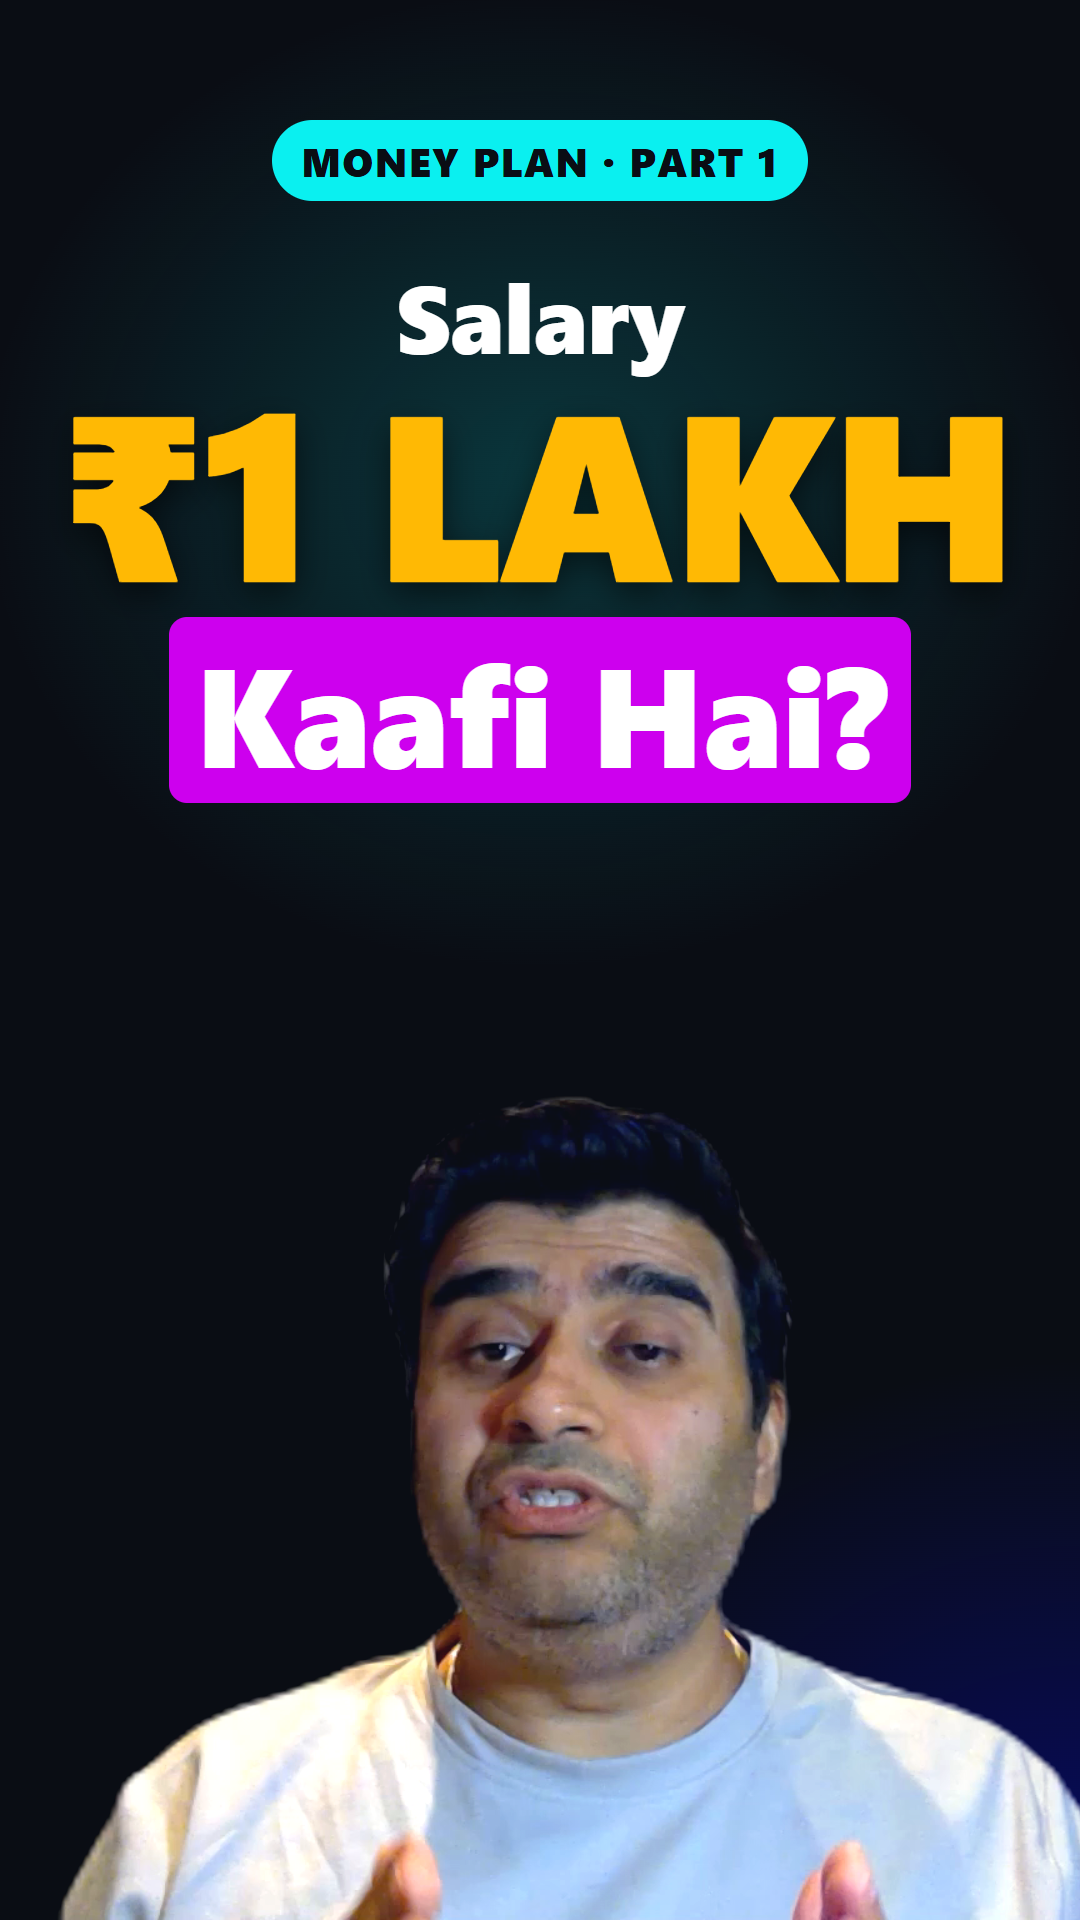
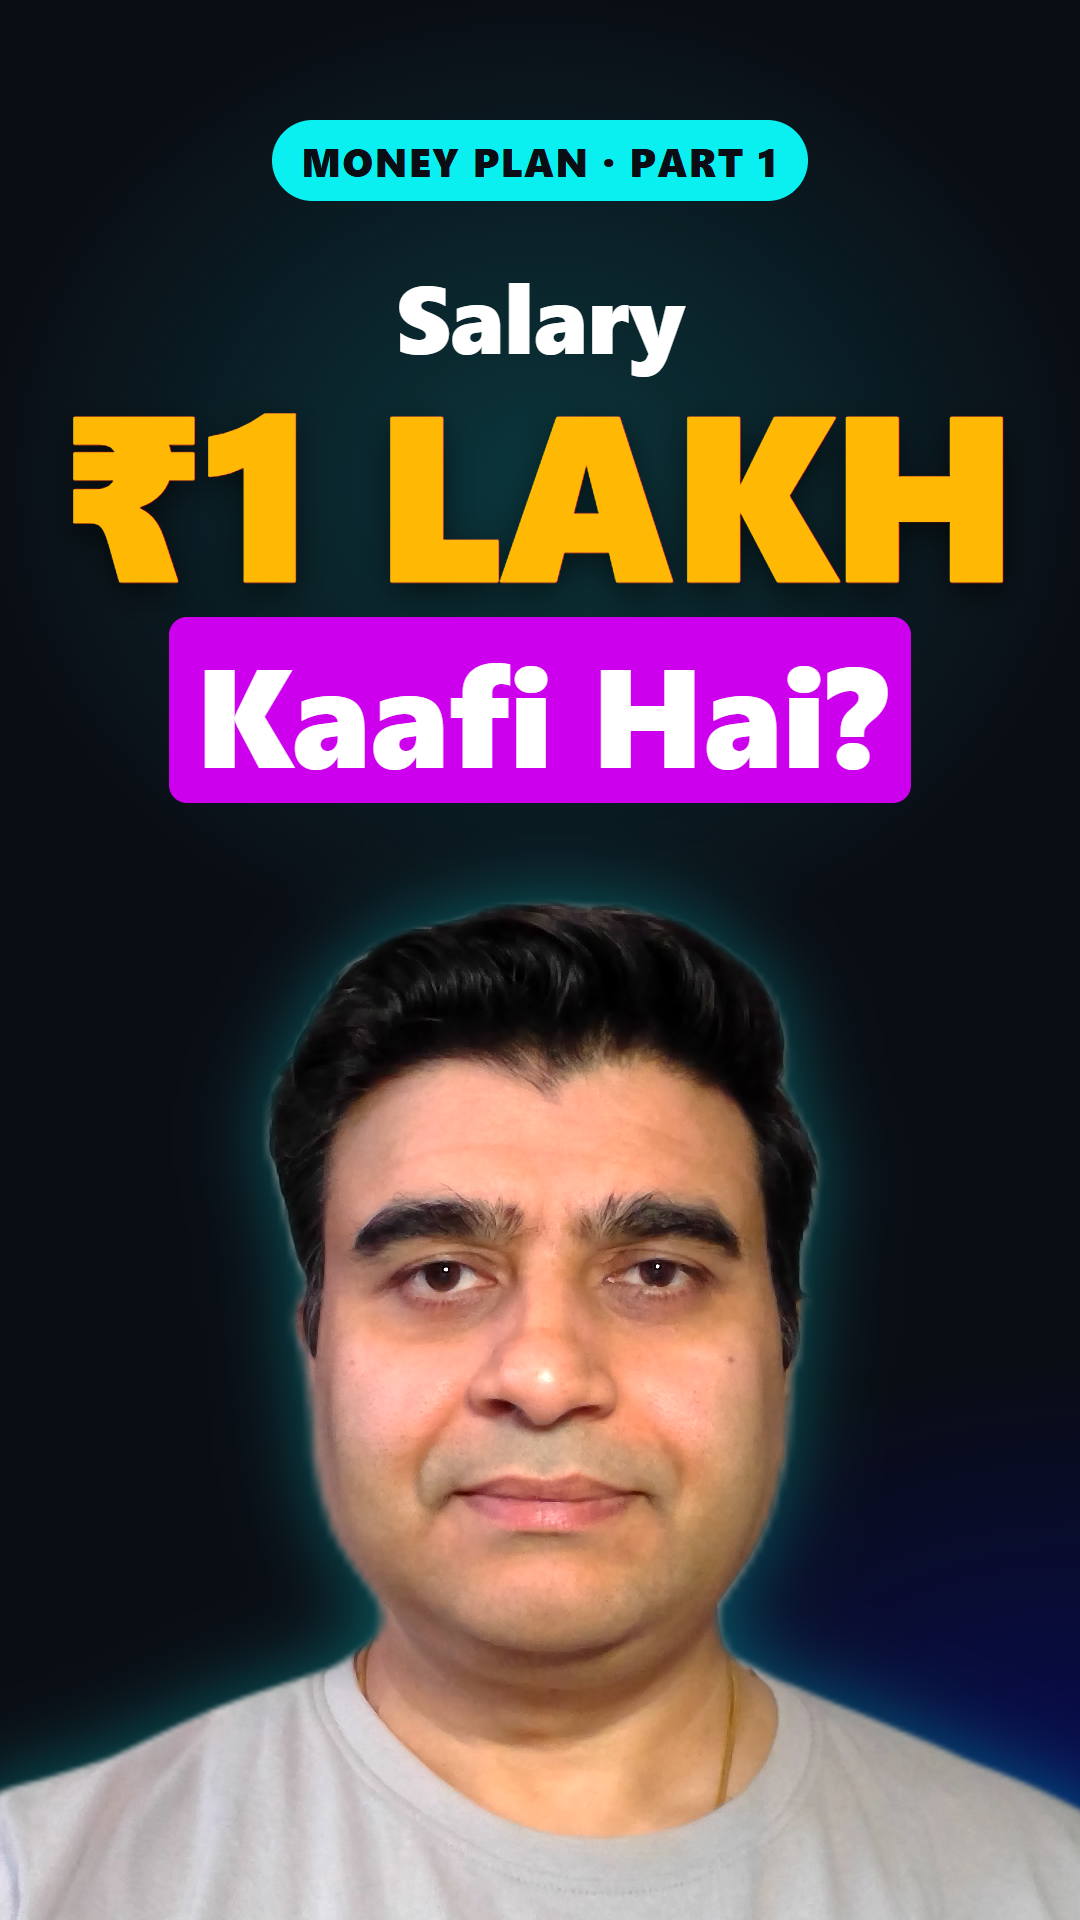
Series thumbnail photo (closed mouth) cut out once; Part 1 thumbnail and Shorts cover rebuilt with it

Changed region(s): [[0.0, 0.4375, 1.0, 1.0]]

diff --git a/videos/ep01/thumbnail/thumb.html b/videos/ep01/thumbnail/thumb.html
@@ -3,7 +3,7 @@
 *{margin:0;padding:0;box-sizing:border-box}
 body{width:1280px;height:720px;overflow:hidden;font-family:"Segoe UI",system-ui,sans-serif;font-weight:800;color:#fff;
   background:radial-gradient(700px 520px at 30% 40%,rgba(10,240,240,.20),transparent 70%),radial-gradient(800px 600px at 100% 100%,rgba(0,5,238,.35),transparent 70%),#0a0d14}
-#raj{position:absolute;left:250px;top:-130px;width:1500px;height:844px;mix-blend-mode:screen;filter:contrast(1.08) saturate(1.1)}
+#raj{position:absolute;left:296px;top:-76px;width:1449px;height:815px;filter:drop-shadow(0 0 28px rgba(10,240,240,.35)) brightness(1.05) contrast(1.06)}
 .pill{position:absolute;left:44px;top:40px;padding:10px 22px;border-radius:9999px;background:#0AF0F0;color:#0a0d14;font-size:30px;letter-spacing:.04em}
 .t1{position:absolute;left:40px;top:118px;font-size:168px;line-height:1;color:#FFB904;-webkit-text-stroke:3px #FFB904;text-shadow:0 10px 30px rgba(0,0,0,.6)}
 .t2{position:absolute;left:44px;top:300px;font-size:112px;line-height:1;text-shadow:0 10px 30px rgba(0,0,0,.6)}
@@ -14,7 +14,7 @@ body{width:1280px;height:720px;overflow:hidden;font-family:"Segoe UI",system-ui,
 .bl span{color:#0AF0F0}
 .fam{position:absolute;left:44px;top:610px;font-size:30px;color:rgba(255,255,255,.85)}
 </style></head><body>
-<img id="raj" src="raj-433.png">
+<img id="raj" src="../../_shared/thumbnail/raj-cutout.png">
 <div class="pill">MONEY PLAN · PART 1</div>
 <div class="t1">₹1 LAKH</div>
 <div class="t2"><b>Kaafi Hai?</b></div>

diff --git a/videos/ep01/thumbnail/cover.html b/videos/ep01/thumbnail/cover.html
@@ -3,7 +3,7 @@
 *{margin:0;padding:0;box-sizing:border-box}
 body{width:1080px;height:1920px;overflow:hidden;font-family:"Segoe UI",system-ui,sans-serif;font-weight:800;color:#fff;text-align:center;
   background:radial-gradient(800px 700px at 50% 25%,rgba(10,240,240,.18),transparent 70%),radial-gradient(900px 800px at 100% 100%,rgba(0,5,238,.35),transparent 70%),#0a0d14}
-#raj{position:absolute;left:-660px;top:570px;width:2400px;height:1350px;mix-blend-mode:screen;filter:contrast(1.08) saturate(1.1)}
+#raj{position:absolute;left:-775px;top:660px;width:2560px;height:1440px;filter:drop-shadow(0 0 40px rgba(10,240,240,.35)) brightness(1.05) contrast(1.06)}
 .pill{position:absolute;left:0;right:0;top:120px}
 .pill span{display:inline-block;padding:14px 30px;border-radius:9999px;background:#0AF0F0;color:#0a0d14;font-size:40px;letter-spacing:.04em}
 .t0{position:absolute;left:0;right:0;top:250px;font-size:96px}
@@ -11,7 +11,7 @@ body{width:1080px;height:1920px;overflow:hidden;font-family:"Segoe UI",system-ui
 .t2{position:absolute;left:0;right:0;top:640px;font-size:140px;line-height:1}
 .t2 b{background:#CD00EE;padding:0 26px;border-radius:18px}
 </style></head><body>
-<img id="raj" src="raj-433.png">
+<img id="raj" src="../../_shared/thumbnail/raj-cutout.png">
 <div class="pill"><span>MONEY PLAN · PART 1</span></div>
 <div class="t0">Salary</div>
 <div class="t1">₹1 LAKH</div>

diff --git a/videos/_shared/thumbnail/README.md b/videos/_shared/thumbnail/README.md
@@ -1,0 +1,14 @@
+# Series thumbnail photo (all 50 parts)
+
+Raj chose this photo for every Money Plan thumbnail and Shorts cover (16 Oct 2026): mouth closed, looking into the lens.
+
+- `raj-thumb-photo.jpg`: the original, from `C:\Users\rajpr\OneDrive\Pictures\Camera Roll\WIN_20261016_16_47_55_Pro.jpg` (2560x1440).
+- `raj-cutout.png`: the same photo with the room removed (transparent PNG, 2560x1440), made with
+  `npx hyperframes@0.8.154 remove-background raj-thumb-photo.jpg -o raj-cutout.png`.
+- Both stay on this computer (git-ignored, because the repo is public).
+
+**Using it in a part (copy `videos/ep01/thumbnail/thumb.html` and `cover.html`):**
+- Thumbnail 1280x720: `#raj{left:296px;top:-76px;width:1449px;height:815px}`. Raj sits on the right; text and the bar stay left of x≈570.
+- Shorts cover 1080x1920: `#raj{left:-775px;top:660px;width:2560px;height:1440px}`. His face is centred under the title.
+- Both use a soft cyan glow: `filter:drop-shadow(0 0 28px rgba(10,240,240,.35)) brightness(1.05) contrast(1.06)`.
+- Change only the words and numbers per part. Render with `node shot.cjs <puppeteer-core path>` and check the image at 320x180.
